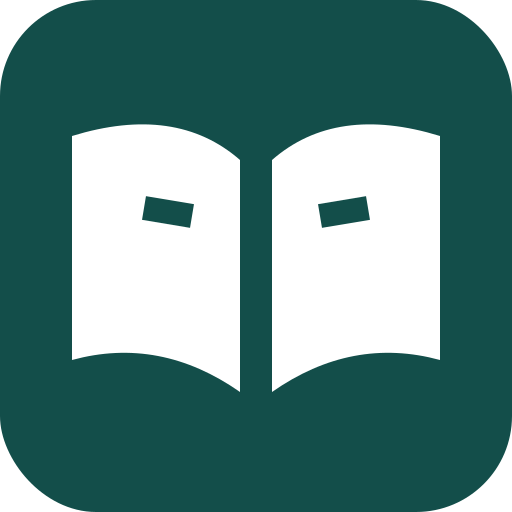
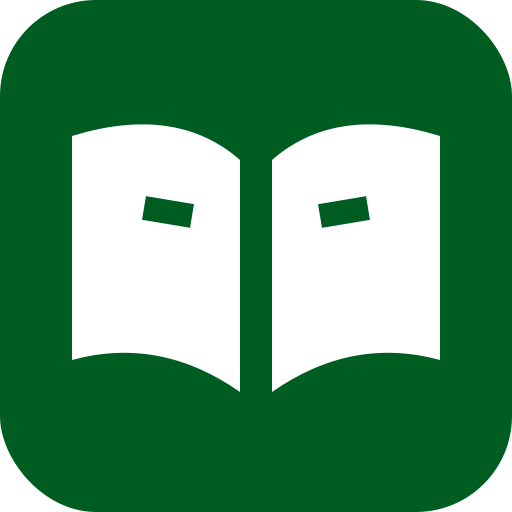
feat(branding): add provenance-aware Adin LMS portal identity

diff --git a/config/branding.php b/config/branding.php
@@ -1,7 +1,10 @@
 <?php
 
 return [
-    'institution' => env('INSTITUTION_NAME', 'Adin LMS'),
-    'logo' => env('INSTITUTION_LOGO', 'portal-mark.svg'),
-    'palette' => env('INSTITUTION_PALETTE', 'teal'),
+    'institution' => env('INSTITUTION_NAME', 'Proposed Adin Open University'),
+    'logo' => env('INSTITUTION_LOGO', 'brand/adin/portal-min.svg'),
+    'logo_full' => env('INSTITUTION_LOGO_FULL', 'brand/adin/portal-full.svg'),
+    'logo_white' => env('INSTITUTION_LOGO_WHITE', 'brand/adin/portal-min-white.svg'),
+    'logo_full_white' => env('INSTITUTION_LOGO_FULL_WHITE', 'brand/adin/portal-full-white.svg'),
+    'palette' => env('INSTITUTION_PALETTE', 'forest'),
 ];
